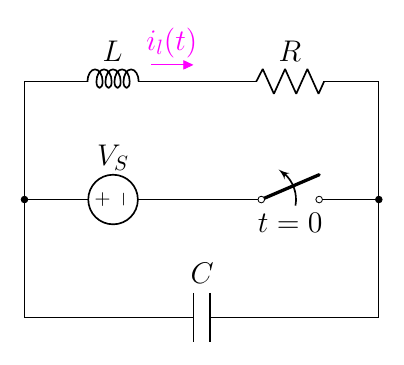
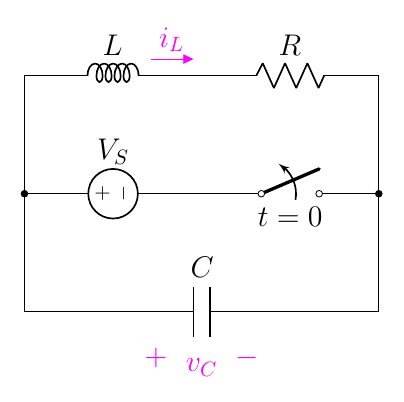
8.20

diff --git a/2.8 Underdamped/8.3.2 The Underdamp RLC Circuit/8.20(new).tex b/2.8 Underdamped/8.3.2 The Underdamp RLC Circuit/8.20(new).tex
@@ -24,9 +24,12 @@
         to[R,l=\rname{}] ++(3,0);
     %%% find %%%
     \node at(4.5,1.6) []{$t=0$};
-    % \draw[magenta](6.2,3)  
-    %     to[open,v^=$v_c(t)$] ++(0,-2);
+
+    \draw[magenta](2,-0.5)  
+        to[open,v_=$v_C$] ++(2,0);
+
     \draw[circuitikz/current arrow color=magenta](2,4)
-    to[open,f>^=$\color{magenta}{i_l(t)}$] ++(2.4,0);
+    to[open,f>^=$\color{magenta}{i_L}$] ++(2.4,0);
+
 \end{circuitikz}
 \end{document}
